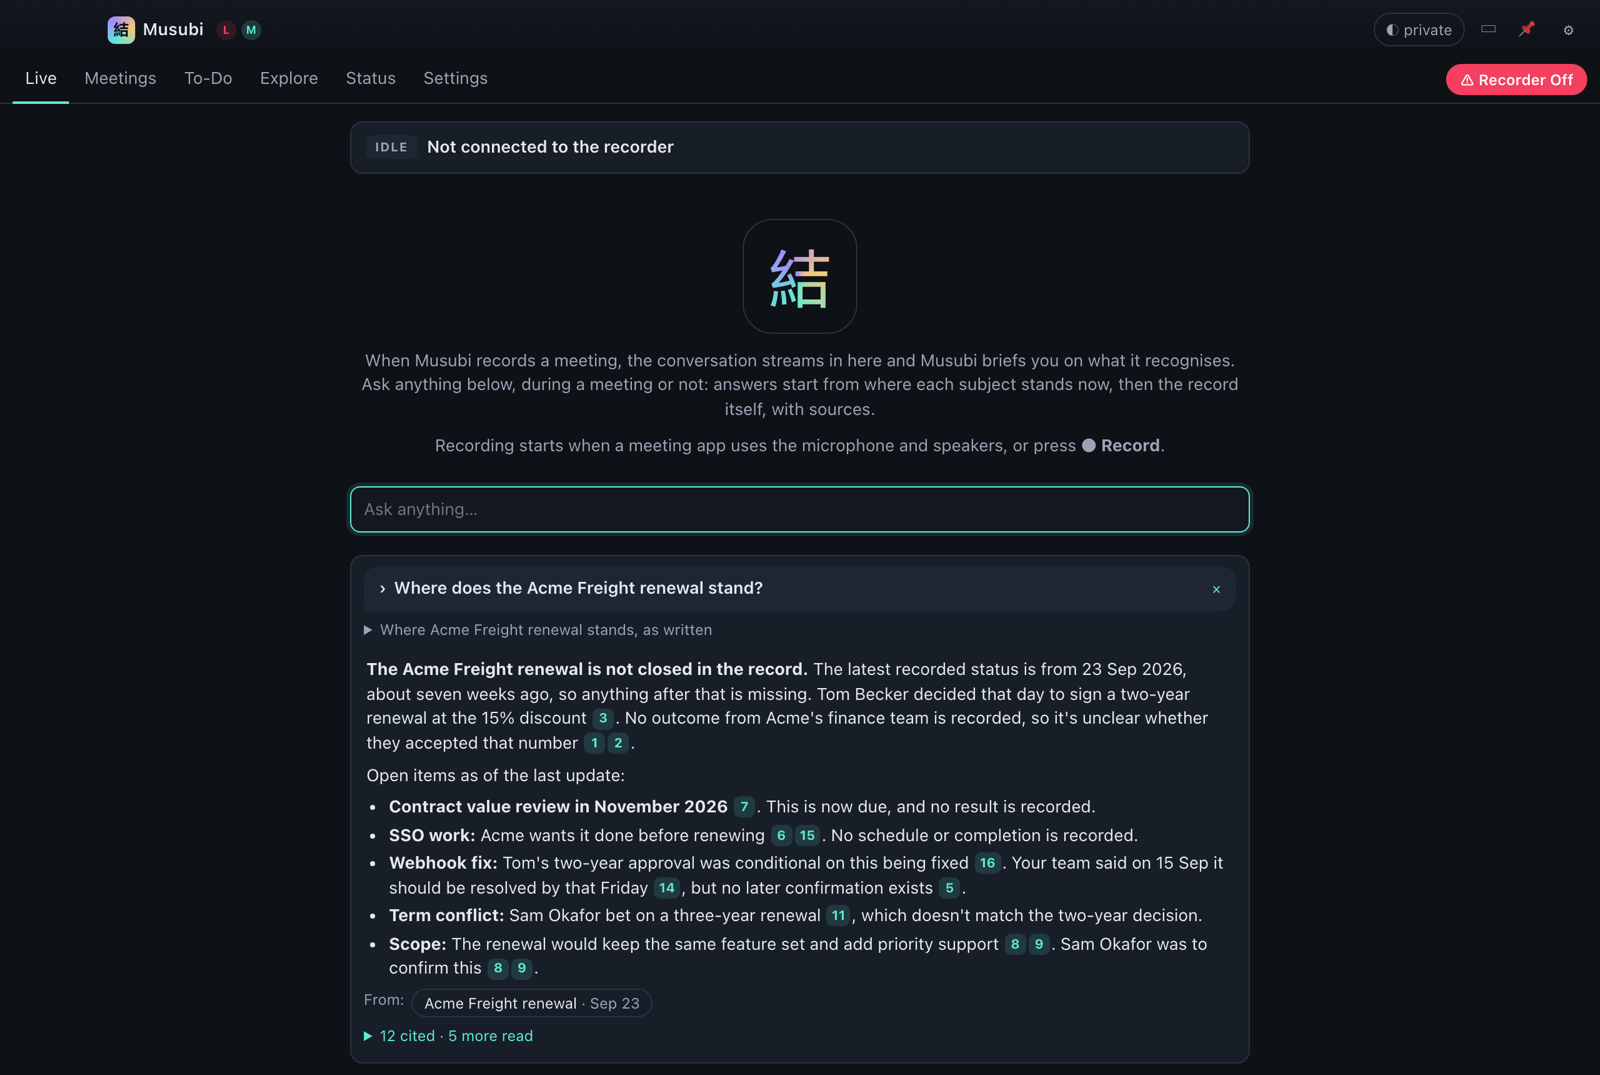
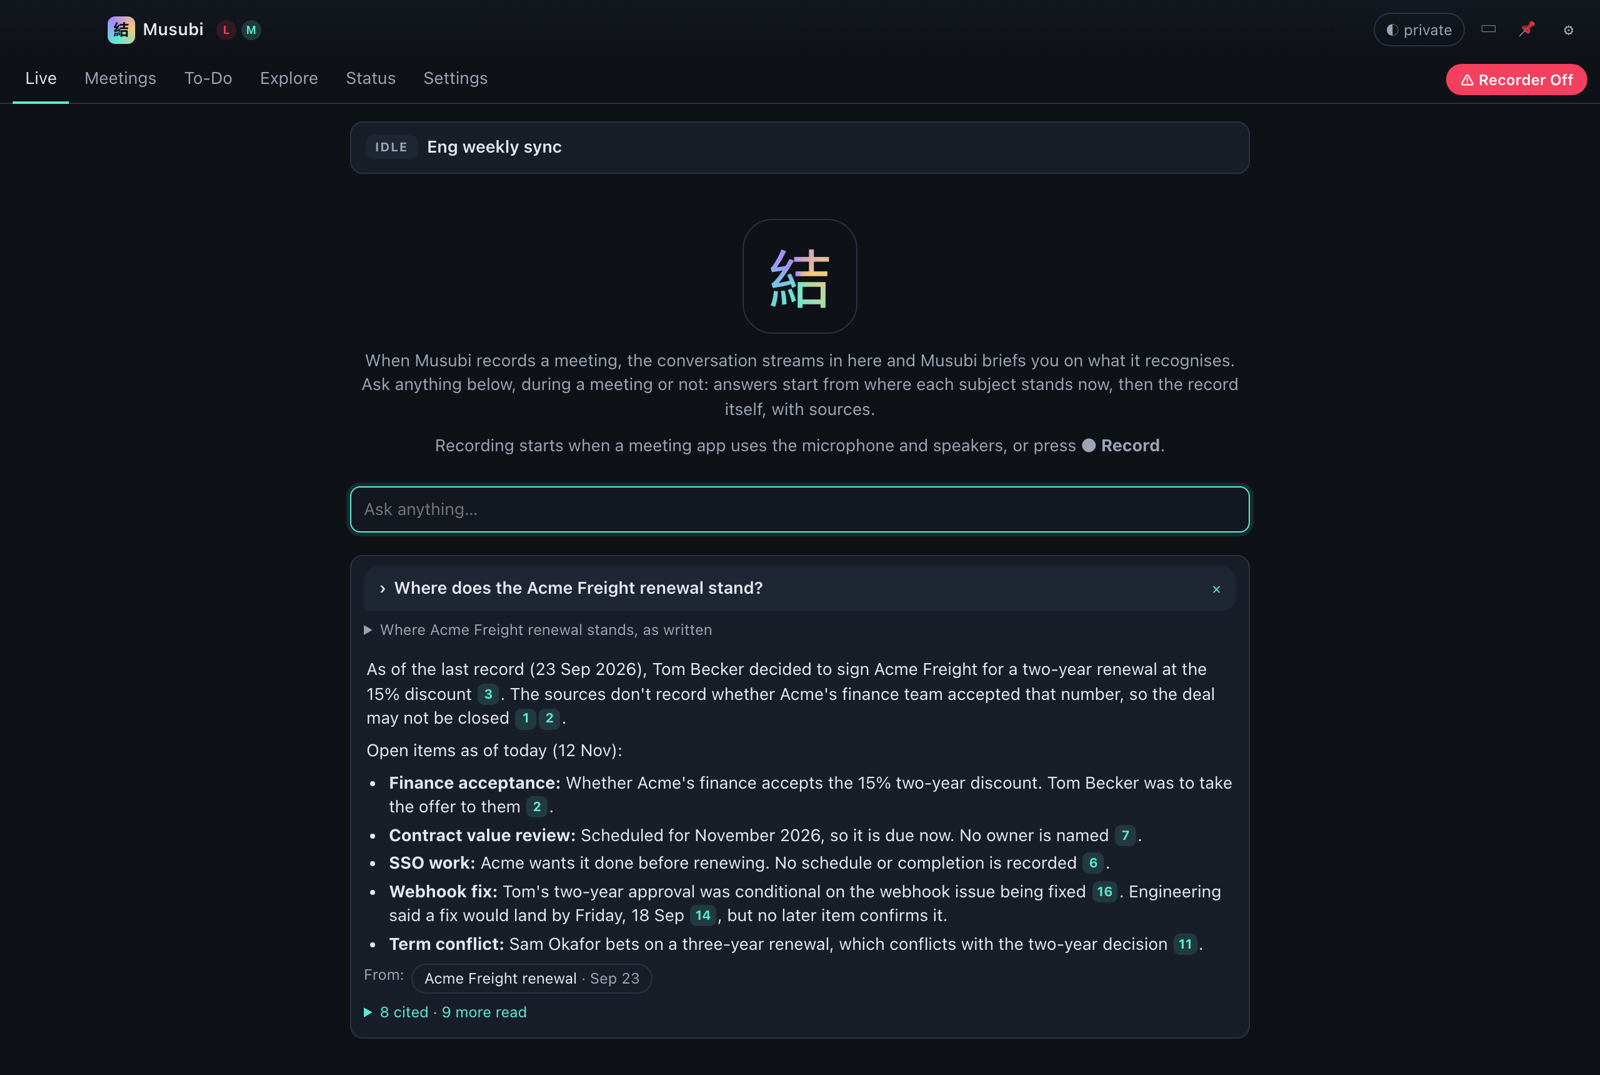
docs: user guide screenshots of Live in a meeting, and of the new defaults

Changed region(s): [[0.2188, 0.614, 0.7812, 1.0], [0.25, 0.1228, 0.4375, 0.1535]]

diff --git a/docs/user-guide.md b/docs/user-guide.md
@@ -102,11 +102,13 @@ minutes.
 
 ### Live
 
-![Live](images/user-guide/live.png)
+![Live during a meeting](images/user-guide/live.png)
 
 During a meeting, Live shows the conversation as it happens and briefs
 you on the subjects it recognises: where each one stands and what is
-still open. While it records, click a speaker's name to rename them.
+still open, each brief with its sources. Below them, cards for the
+people and subjects in the conversation. (The picture is a demo meeting
+replayed.) While it records, click a speaker's name to rename them.
 
 At any time you can **ask a question** in the box. Answers start from
 where each subject stands now, then the record itself, and every answer
